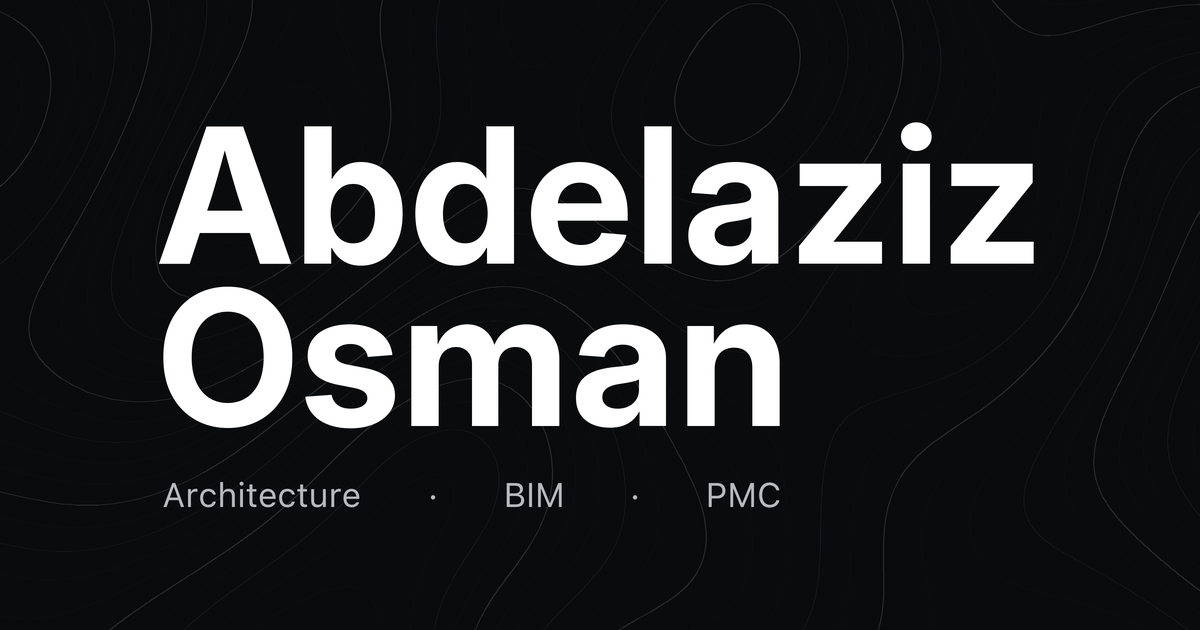
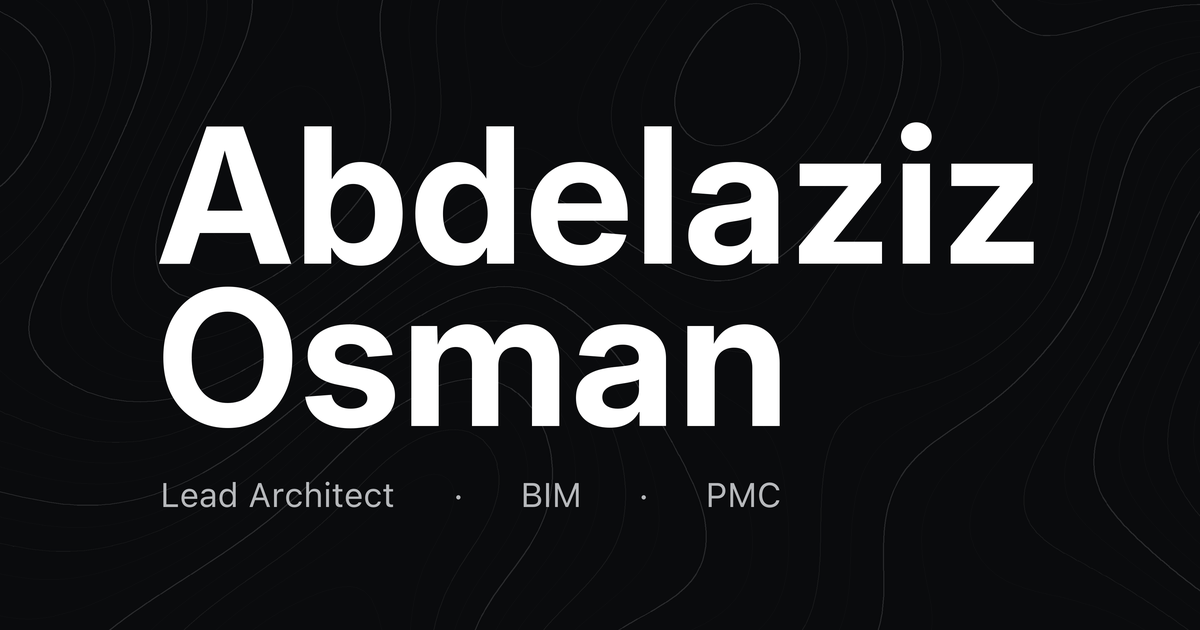
Unify header role to Lead Architect · BIM · PMC and add Revit/BIM bio & share graphic

Changed region(s): [[0.1233, 0.754, 0.3392, 0.8143], [0.4008, 0.754, 0.4933, 0.8143]]

diff --git a/index.html b/index.html
@@ -4994,8 +4994,8 @@ html[dir="rtl"] .lang-toggle {
   <meta property="og:url" content="https://abdelazizothmaneg-alt.github.io/portfolio/">
   <meta property="og:site_name" content="Abdelaziz Osman">
   <meta property="og:image:secure_url" content="https://abdelazizothmaneg-alt.github.io/portfolio/assets/web/og-abdelaziz-osman-approved.png">
-  <meta property="og:image:alt" content="Abdelaziz Osman — Architecture · BIM · PMC on the portfolio topographic contour background">
-  <meta name="twitter:image:alt" content="Abdelaziz Osman — Architecture · BIM · PMC on the portfolio topographic contour background">
+  <meta property="og:image:alt" content="Abdelaziz Osman — Lead Architect · BIM · PMC on the portfolio topographic contour background">
+  <meta name="twitter:image:alt" content="Abdelaziz Osman — Lead Architect · BIM · PMC on the portfolio topographic contour background">
 </head>
 <body>
   <!-- Generative Topographic Contours Background -->
@@ -5011,7 +5011,7 @@ html[dir="rtl"] .lang-toggle {
     <div class="nav-container">
       <a class="brand" href="#hero">
         <span class="brand-name" data-i18n="brandName">Abdelaziz Osman</span>
-        <span class="brand-subtitle" data-i18n="brandSub">Lead Architect · Engineering · PMC</span>
+        <span class="brand-subtitle" data-i18n="brandSub">Lead Architect · BIM · PMC</span>
       </a>
 
       <ul class="nav-links" id="navLinks">
@@ -5060,7 +5060,7 @@ html[dir="rtl"] .lang-toggle {
             <div class="hero-geography" data-i18n="heroGeo">Jazan, KSA &bull; Al-Mahalla Al-Kubra, Egypt</div>
 
             <p class="hero-bio" data-i18n="heroBio">
-              Over 12 years bridging visionary architectural design with rigorous Project Management Consultancy (PMC) across Saudi Arabia and Egypt. Leading multidisciplinary teams to deliver high-profile strategic developments, regional master communities, and commercial brand flagships totaling over 350,000+ sqm BUA valued at +500M SAR.
+              Over 12 years leading architectural design and PMC delivery across Saudi Arabia and Egypt, with Revit-based BIM coordination. I coordinate federated models, resolve multidisciplinary clashes, and manage BIM-led drawing and BOQ packages to support buildable delivery.
             </p>
 
             <div class="hero-credentials-bar">
@@ -7310,7 +7310,7 @@ html[dir="rtl"] .lang-toggle {
     const i18n = {
       en: {
         brandName: "Abdelaziz Osman",
-        brandSub: "Lead Architect · Engineering · PMC",
+        brandSub: "Lead Architect · BIM · PMC",
         filterAll: "Other projects (26)",
         filterFeatured: "Featured projects (5)",
         filterTowers: "High-Rise Towers",
@@ -7372,7 +7372,7 @@ html[dir="rtl"] .lang-toggle {
         heroLocation: "Jazan, KSA / Al-Mahalla Al-Kubra, EGYPT",
         heroCaptionName: "ABDELAZIZ OSMAN",
         heroRole: "Lead Architect | Engineering & Project Management Consultant (PMC)",
-        heroBio: "Over 12 years bridging visionary architectural design with rigorous Project Management Consultancy (PMC) across Saudi Arabia and Egypt. Leading multidisciplinary teams to deliver high-profile strategic developments, regional master communities, and commercial brand flagships totaling over 350,000+ sqm BUA valued at +500M SAR.",
+        heroBio: "Over 12 years leading architectural design and PMC delivery across Saudi Arabia and Egypt, with Revit-based BIM coordination. I coordinate federated models, resolve multidisciplinary clashes, and manage BIM-led drawing and BOQ packages to support buildable delivery.",
         
         pillPmp: "PMP® Certified (#4322897)",
         pillLeed: "LEED Green Associate™ (#11676431)",
@@ -7500,7 +7500,7 @@ html[dir="rtl"] .lang-toggle {
       },
       ar: {
         brandName: "م. عبد العزيز عثمان",
-        brandSub: "معماري رئيسي · استشارات هندسية · PMC",
+        brandSub: "معماري رئيسي · BIM · PMC",
         filterAll: "كافة الأعمال",
         filterTowers: "الأبراج الإدارية",
         filterMasterplan: "الواجهات البحرية والمخططات",
@@ -7575,7 +7575,7 @@ html[dir="rtl"] .lang-toggle {
         heroLocation: "جازان، المملكة العربية السعودية / المحلة الكبرى، مصر",
         heroCaptionName: "م. عبد العزيز عثمان",
         heroRole: "معماري رئيسي | استشاري هندسي وإدارة مشاريع (PMC)",
-        heroBio: "أكثر من 12 عاماً من الجمع بين الرؤية التصميمية المعمارية وحوكمة الاستشارات الهندسية وإدارة المشاريع (PMC) في المملكة العربية السعودية ومصر. قيادة فرق متعددة التخصصات لتسليم مشاريع استراتيجية كبرى، مجتمعات عمرانية متكاملة، ومقرات تجارية وإدارية بإجمالي مسطحات تتجاوز 350,000+ م² وقيمة استثمارية تفوق 500+ مليون ريال.",
+        heroBio: "أكثر من 12 عاماً في قيادة التصميم المعماري وإدارة المشاريع الاستشارية (PMC) في المملكة العربية السعودية ومصر، مع تنسيق أعمال BIM عبر برنامج Revit. أعمل على تنسيق النماذج الموحدة متعددة التخصصات، ومراجعة وحل التعارضات الهندسية، وإدارة حزم الرسومات التنفيذية وجداول الكميات (BOQ) لدعم تنفيذ متكامل قابل للبناء.",
         
         pillPmp: "معتمد PMP® لإدارة المشاريع (#4322897)",
         pillLeed: "معتمد LEED® GA للأبنية الخضراء (#11676431)",

diff --git a/index-demo.html b/index-demo.html
@@ -5009,8 +5009,8 @@ html[dir="rtl"] .lang-toggle {
   <meta property="og:image:type" content="image/png">
   <meta property="og:image:width" content="1200">
   <meta property="og:image:height" content="630">
-  <meta property="og:image:alt" content="Abdelaziz Osman — Architecture · BIM · PMC on the portfolio topographic contour background">
-  <meta name="twitter:image:alt" content="Abdelaziz Osman — Architecture · BIM · PMC on the portfolio topographic contour background">
+  <meta property="og:image:alt" content="Abdelaziz Osman — Lead Architect · BIM · PMC on the portfolio topographic contour background">
+  <meta name="twitter:image:alt" content="Abdelaziz Osman — Lead Architect · BIM · PMC on the portfolio topographic contour background">
 </head>
 <body>
   <!-- Generative Topographic Contours Background -->
@@ -5029,7 +5029,7 @@ html[dir="rtl"] .lang-toggle {
     <div class="nav-container">
       <a class="brand" href="#hero">
         <span class="brand-name" data-i18n="brandName">Abdelaziz Osman</span>
-        <span class="brand-subtitle" data-i18n="brandSub">Lead Architect · Engineering · PMC</span>
+        <span class="brand-subtitle" data-i18n="brandSub">Lead Architect · BIM · PMC</span>
       </a>
 
       <ul class="nav-links" id="navLinks">
@@ -5078,7 +5078,7 @@ html[dir="rtl"] .lang-toggle {
             <div class="hero-geography" data-i18n="heroGeo">Jazan, KSA &bull; Al-Mahalla Al-Kubra, Egypt</div>
 
             <p class="hero-bio" data-i18n="heroBio">
-              Over 12 years bridging visionary architectural design with rigorous Project Management Consultancy (PMC) across Saudi Arabia and Egypt. Leading multidisciplinary teams to deliver high-profile strategic developments, regional master communities, and commercial brand flagships totaling over 350,000+ sqm BUA valued at +500M SAR.
+              Over 12 years leading architectural design and PMC delivery across Saudi Arabia and Egypt, with Revit-based BIM coordination. I coordinate federated models, resolve multidisciplinary clashes, and manage BIM-led drawing and BOQ packages to support buildable delivery.
             </p>
 
             <div class="hero-credentials-bar">
@@ -7327,7 +7327,7 @@ html[dir="rtl"] .lang-toggle {
     const i18n = {
       en: {
         brandName: "Abdelaziz Osman",
-        brandSub: "Lead Architect · Engineering · PMC",
+        brandSub: "Lead Architect · BIM · PMC",
         filterAll: "Other projects (26)",
         filterFeatured: "Featured projects (5)",
         filterTowers: "High-Rise Towers",
@@ -7389,7 +7389,7 @@ html[dir="rtl"] .lang-toggle {
         heroLocation: "Jazan, KSA / Al-Mahalla Al-Kubra, EGYPT",
         heroCaptionName: "ABDELAZIZ OSMAN",
         heroRole: "Lead Architect | Engineering & Project Management Consultant (PMC)",
-        heroBio: "Over 12 years bridging visionary architectural design with rigorous Project Management Consultancy (PMC) across Saudi Arabia and Egypt. Leading multidisciplinary teams to deliver high-profile strategic developments, regional master communities, and commercial brand flagships totaling over 350,000+ sqm BUA valued at +500M SAR.",
+        heroBio: "Over 12 years leading architectural design and PMC delivery across Saudi Arabia and Egypt, with Revit-based BIM coordination. I coordinate federated models, resolve multidisciplinary clashes, and manage BIM-led drawing and BOQ packages to support buildable delivery.",
         
         pillPmp: "PMP® Certified (#4322897)",
         pillLeed: "LEED Green Associate™ (#11676431)",
@@ -7517,7 +7517,7 @@ html[dir="rtl"] .lang-toggle {
       },
       ar: {
         brandName: "م. عبد العزيز عثمان",
-        brandSub: "معماري رئيسي · استشارات هندسية · PMC",
+        brandSub: "معماري رئيسي · BIM · PMC",
         filterAll: "كافة الأعمال",
         filterTowers: "الأبراج الإدارية",
         filterMasterplan: "الواجهات البحرية والمخططات",
@@ -7592,7 +7592,7 @@ html[dir="rtl"] .lang-toggle {
         heroLocation: "جازان، المملكة العربية السعودية / المحلة الكبرى، مصر",
         heroCaptionName: "م. عبد العزيز عثمان",
         heroRole: "معماري رئيسي | استشاري هندسي وإدارة مشاريع (PMC)",
-        heroBio: "أكثر من 12 عاماً من الجمع بين الرؤية التصميمية المعمارية وحوكمة الاستشارات الهندسية وإدارة المشاريع (PMC) في المملكة العربية السعودية ومصر. قيادة فرق متعددة التخصصات لتسليم مشاريع استراتيجية كبرى، مجتمعات عمرانية متكاملة، ومقرات تجارية وإدارية بإجمالي مسطحات تتجاوز 350,000+ م² وقيمة استثمارية تفوق 500+ مليون ريال.",
+        heroBio: "أكثر من 12 عاماً في قيادة التصميم المعماري وإدارة المشاريع الاستشارية (PMC) في المملكة العربية السعودية ومصر، مع تنسيق أعمال BIM عبر برنامج Revit. أعمل على تنسيق النماذج الموحدة متعددة التخصصات، ومراجعة وحل التعارضات الهندسية، وإدارة حزم الرسومات التنفيذية وجداول الكميات (BOQ) لدعم تنفيذ متكامل قابل للبناء.",
         
         pillPmp: "معتمد PMP® لإدارة المشاريع (#4322897)",
         pillLeed: "معتمد LEED® GA للأبنية الخضراء (#11676431)",
